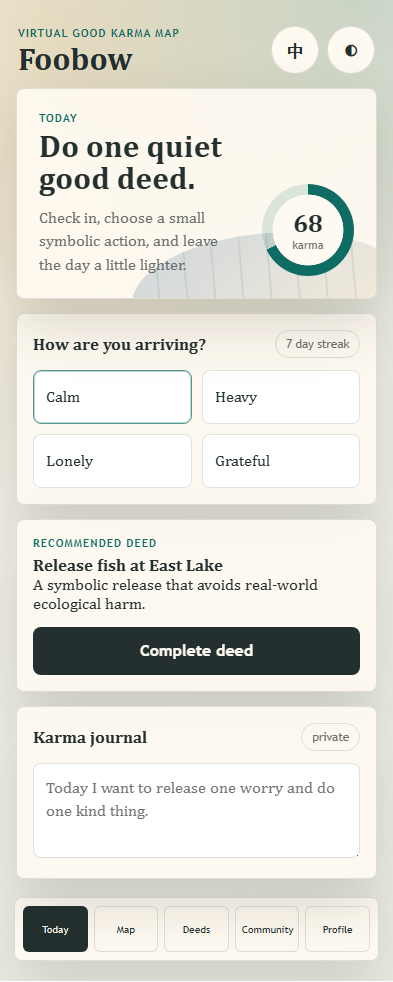
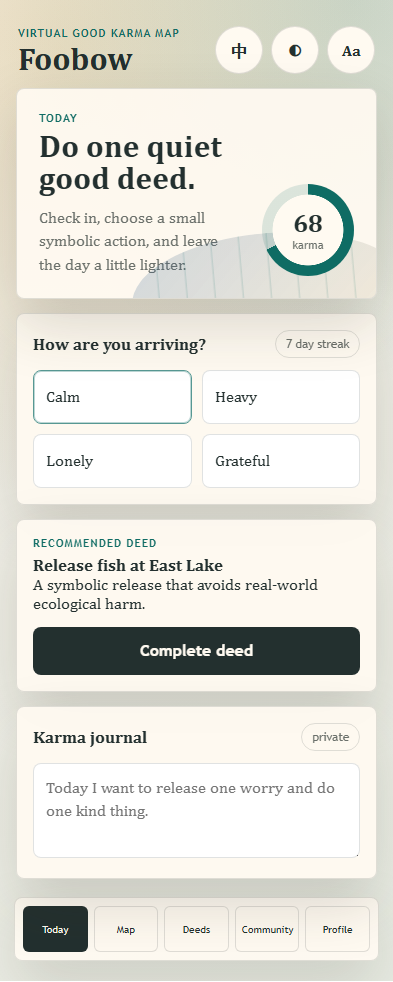
Add prototype senior readability toggle with PA coverage
Wire the previously unreachable .senior-mode CSS to a persisted header
toggle (Aa, aria-pressed) mirroring the mobile senior mode. Add a
browser PA test for enlarge/persist/restore behavior and regenerate
today-screen visual baselines so they show the new control.

Changed region(s): [[0.5496, 0.0305, 0.6718, 0.0916], [0.855, 0.0305, 0.916, 0.0611], [0.7328, 0.0305, 0.7634, 0.0611]]

diff --git a/prototype/app.js b/prototype/app.js
@@ -396,6 +396,8 @@ function renderSettings() {
 
 function renderAll() {
   document.body.classList.toggle("dark", state.theme === "dark");
+  document.body.classList.toggle("senior-mode", Boolean(state.settings.seniorMode));
+  document.getElementById("seniorToggle").setAttribute("aria-pressed", String(Boolean(state.settings.seniorMode)));
   applyTranslations();
   renderStats();
   renderCategoryFilters();
@@ -469,6 +471,12 @@ document.getElementById("blessingForm").addEventListener("submit", (event) => {
 
 document.getElementById("themeToggle").addEventListener("click", () => {
   state.theme = state.theme === "dark" ? "light" : "dark";
+  saveState();
+  renderAll();
+});
+
+document.getElementById("seniorToggle").addEventListener("click", () => {
+  state.settings.seniorMode = !state.settings.seniorMode;
   saveState();
   renderAll();
 });

diff --git a/prototype/data.js b/prototype/data.js
@@ -16,7 +16,8 @@ window.FOOBOW_DATA = {
     settings: {
       privateJournal: true,
       quietRanking: true,
-      donationReceipts: true
+      donationReceipts: true,
+      seniorMode: false
     },
     blessings: [
       {

diff --git a/prototype/index.html b/prototype/index.html
@@ -16,6 +16,7 @@
         <div class="top-actions">
           <button class="icon-button" id="languageToggle" type="button" aria-label="Switch language">中</button>
           <button class="icon-button" id="themeToggle" type="button" aria-label="Toggle dark mode">◐</button>
+          <button class="icon-button" id="seniorToggle" type="button" aria-label="Toggle senior readability mode" aria-pressed="false">Aa</button>
         </div>
       </header>
 

diff --git a/memory.md b/memory.md
@@ -69,6 +69,9 @@ This file is the project-local memory. Keep it current whenever product directio
 - Implemented mobile localization per `docs/localization-workflow.md` using `expo-localization` + `i18n-js` (standard Expo stack): `src/i18n/translations.ts` holds grouped stable keys for `en` and `zh-Hans` (ported from the prototype dictionary plus new mobile strings), `src/i18n/LocaleContext.tsx` resolves device locale with a persisted System/English/中文 override, and the Profile screen gained a language selector. All components now render through `t()`; accessibility labels are translated alongside visible labels.
 - CI `npm ci` failed after the audit fix because the mobile lockfile lost the `react-native-worklets` entry; re-synced with `npm install` and validated all three lockfiles with `npm ci --dry-run`. Lesson: after any `npm audit fix`, validate lockfiles the same way CI installs them.
 
+- CI is fully green again as of commit `2ee0b72` (verify, api-db-smoke, and visual-regression jobs all pass).
+- Added the missing senior-mode toggle to the prototype header (`Aa` icon button with `aria-pressed`), wired to persisted `settings.seniorMode` and `body.senior-mode`, making the previously dead `.senior-mode` CSS reachable and matching the mobile toggle. Added a browser PA test for enlarge/persist/restore behavior (12 PA tests now) and regenerated the today-screen visual baselines, which had been within diff tolerance but not showing the new button — note `--update-snapshots` skips rewriting snapshots that pass within `maxDiffPixelRatio`; delete the files first to force a truthful refresh.
+
 ## Working Principles
 
 - Use ODD to keep development tied to product objects and user-visible value.

diff --git a/docs/task-board.md b/docs/task-board.md
@@ -82,6 +82,8 @@
 - Add AsyncStorage-backed local persistence for karma, streak, journal, and preference toggles with a hydration-safe `usePersistentState` hook.
 - Install Node `20.19.4` via nvm-windows for Prisma/Expo tooling (machine default still `20.17.0`).
 - Implement mobile `en`/`zh-Hans` localization with expo-localization + i18n-js, persisted language preference, Profile language selector, and translated accessibility labels.
+- Add prototype senior readability toggle with persistence, PA coverage, and refreshed today-screen visual baselines.
+- Restore full CI green across verify, api-db-smoke, and visual-regression jobs.
 
 
 ## Next